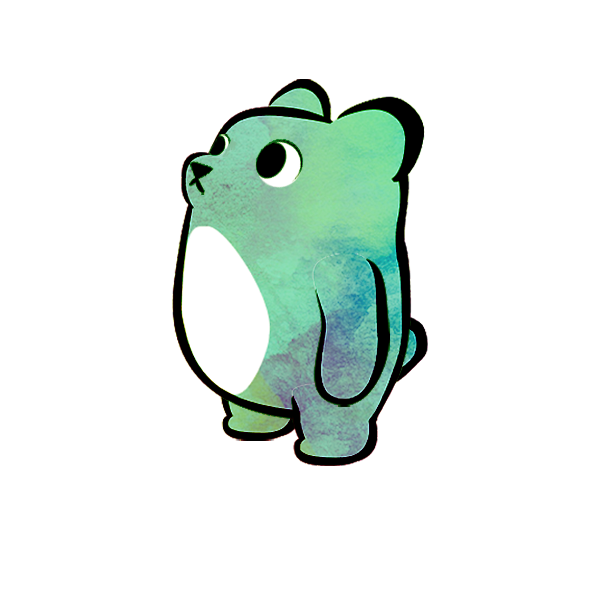
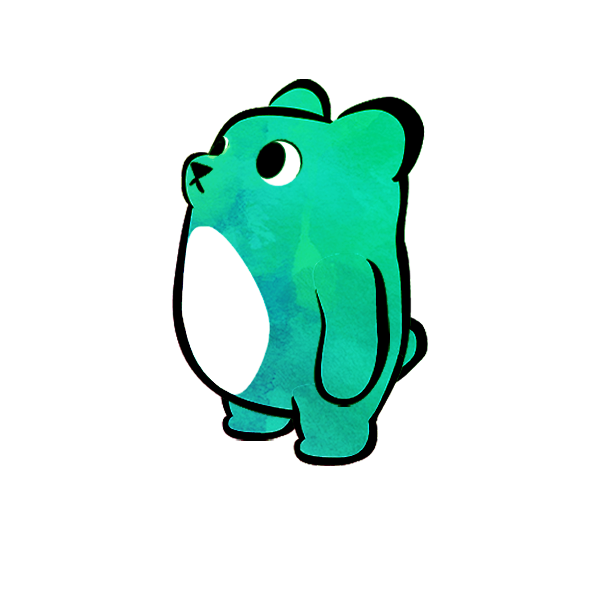
clear timeout

Changed region(s): [[0.3, 0.12, 0.72, 0.78]]

diff --git a/src/Contexts/CharacterContext.js b/src/Contexts/CharacterContext.js
@@ -1,11 +1,12 @@
 import React, { createContext, Component } from 'react';
 // import foxBubble from 'Assets/fox-blowing-bubbles.gif';
 import foxEnters from 'Assets/flipbook-fox-enter-scene.gif';
+import foxEnters2 from 'Assets/flipbook-fox-enter-scene-2.gif';
 import foxBubble from 'Assets/flipbook-final.gif';
 import foxIdle from 'Assets/fox-idle.gif';
 import { withRouter } from "react-router-dom";
 // import bear from 'Assets/bear.png';
-import bear from 'Assets/bear2.png';
+import bear from 'Assets/bear.png';
 
 
 export const CharacterContext = createContext();
@@ -13,6 +14,7 @@ export const CharacterConsumer = CharacterContext.Consumer;
 
 const animations = {
     FOXENTRANCE: foxEnters,
+    FOXENTRANCE2: foxEnters2,
     BEARENTRANCE: 'bear enter',
     FOXBUBBLES: foxBubble,
     FOXPLANTGROWING: foxIdle,
@@ -26,6 +28,7 @@ const pages = [
     {
         name: 'home', character: 'fox', states: [
             { animation: animations.FOXENTRANCE, duration: 1800 },
+            { animation: animations.FOXENTRANCE2, duration: 200 },
             { animation: animations.FOXBUBBLES, bubbles: true }
         ]
     },
@@ -38,6 +41,7 @@ const pages = [
     {
         name: 'resume', character: 'fox', states: [
             { animation: animations.FOXENTRANCE, duration: 1800 },
+            { animation: animations.FOXENTRANCE2, duration: 200 },
             { animation: animations.FOXPLANT, duration: 400 },
             { animation: animations.FOXPLANTGROWING, duration: 300 }
         ]
@@ -58,6 +62,7 @@ class CharacterDataProvider extends Component {
             currentPage: undefined,
             lastPage: undefined,
             currentState: 0,
+            timeout: null
         }
     }
 
@@ -71,7 +76,7 @@ class CharacterDataProvider extends Component {
 
     isNewPage = () => {
         const { currentPage, lastPage } = this.state;
-        
+
         return (currentPage !== undefined && lastPage !== undefined) ?
             currentPage !== lastPage
             : true
@@ -129,11 +134,14 @@ class CharacterDataProvider extends Component {
         const { currentState, currentPage } = this.state;
         let nextState = currentState + 1
 
-        this.setState({ currentState: nextState })
-        if (this.isNextState()) {
-            let duration = currentPage.states[nextState].duration
-            setTimeout(this.updateCurrentState, duration)
-        }
+        this.setState({ currentState: nextState }, () => {
+            console.log(this.state.currentState)
+            if (this.isNextState()) {
+                let duration = currentPage.states[this.state.currentState].duration
+                this.setState({ timeout: setTimeout(this.updateCurrentState, duration) })
+            }
+        })
+
     }
 
     componentDidMount() {
@@ -142,23 +150,31 @@ class CharacterDataProvider extends Component {
         this.setCurrentPageState(currentPageData).then(() => {
             if (this.state.currentPage !== undefined) {
                 let duration = this.state.currentPage.states[0].duration
-                setTimeout(this.updateCurrentState, duration)
+                this.setState({ timeout: setTimeout(this.updateCurrentState, duration) })
             }
         })
     }
 
     componentDidUpdate(newProps) {
+        const { timeout } = this.state;
+
         if (this.props.location !== newProps.location) {
             let currentPageData = this.getPage();
 
             this.setCurrentPageState(currentPageData).then(() => {
                 let newPageAndCharacterEnters = this.isNewPage() && this.doesCharacterEnter()
                 let newPage = this.isNewPage() && !this.doesCharacterEnter()
-                let currentState = newPage ? 1 : newPageAndCharacterEnters ? 0 : 1;
+                let currentState = newPage ? 2 : newPageAndCharacterEnters ? 0 : 2;
 
                 this.setState({ currentState: currentState }, () => {
+                    console.log(this.state.currentState, this.state.currentPage.states[this.state.currentState].duration)
+                    clearTimeout(timeout);
                     if (this.state.currentPage !== undefined && this.isNextState()) {
-                        setTimeout(this.updateCurrentState, this.state.currentPage.states[this.state.currentState].duration)
+                        this.setState(
+                            {
+                                timeout: setTimeout(this.updateCurrentState,
+                                    this.state.currentPage.states[this.state.currentState].duration)
+                            })
                     }
                 })
             })

diff --git a/src/Routes/Contact/index.js b/src/Routes/Contact/index.js
@@ -11,6 +11,7 @@ const styles = theme => {
             height: '100%',
             width: '100%',
             overflowY: 'hidden',
+            overFlow: 'hidden',
             display: 'flex',
             justifyContent: 'center',
             position: 'relative',
